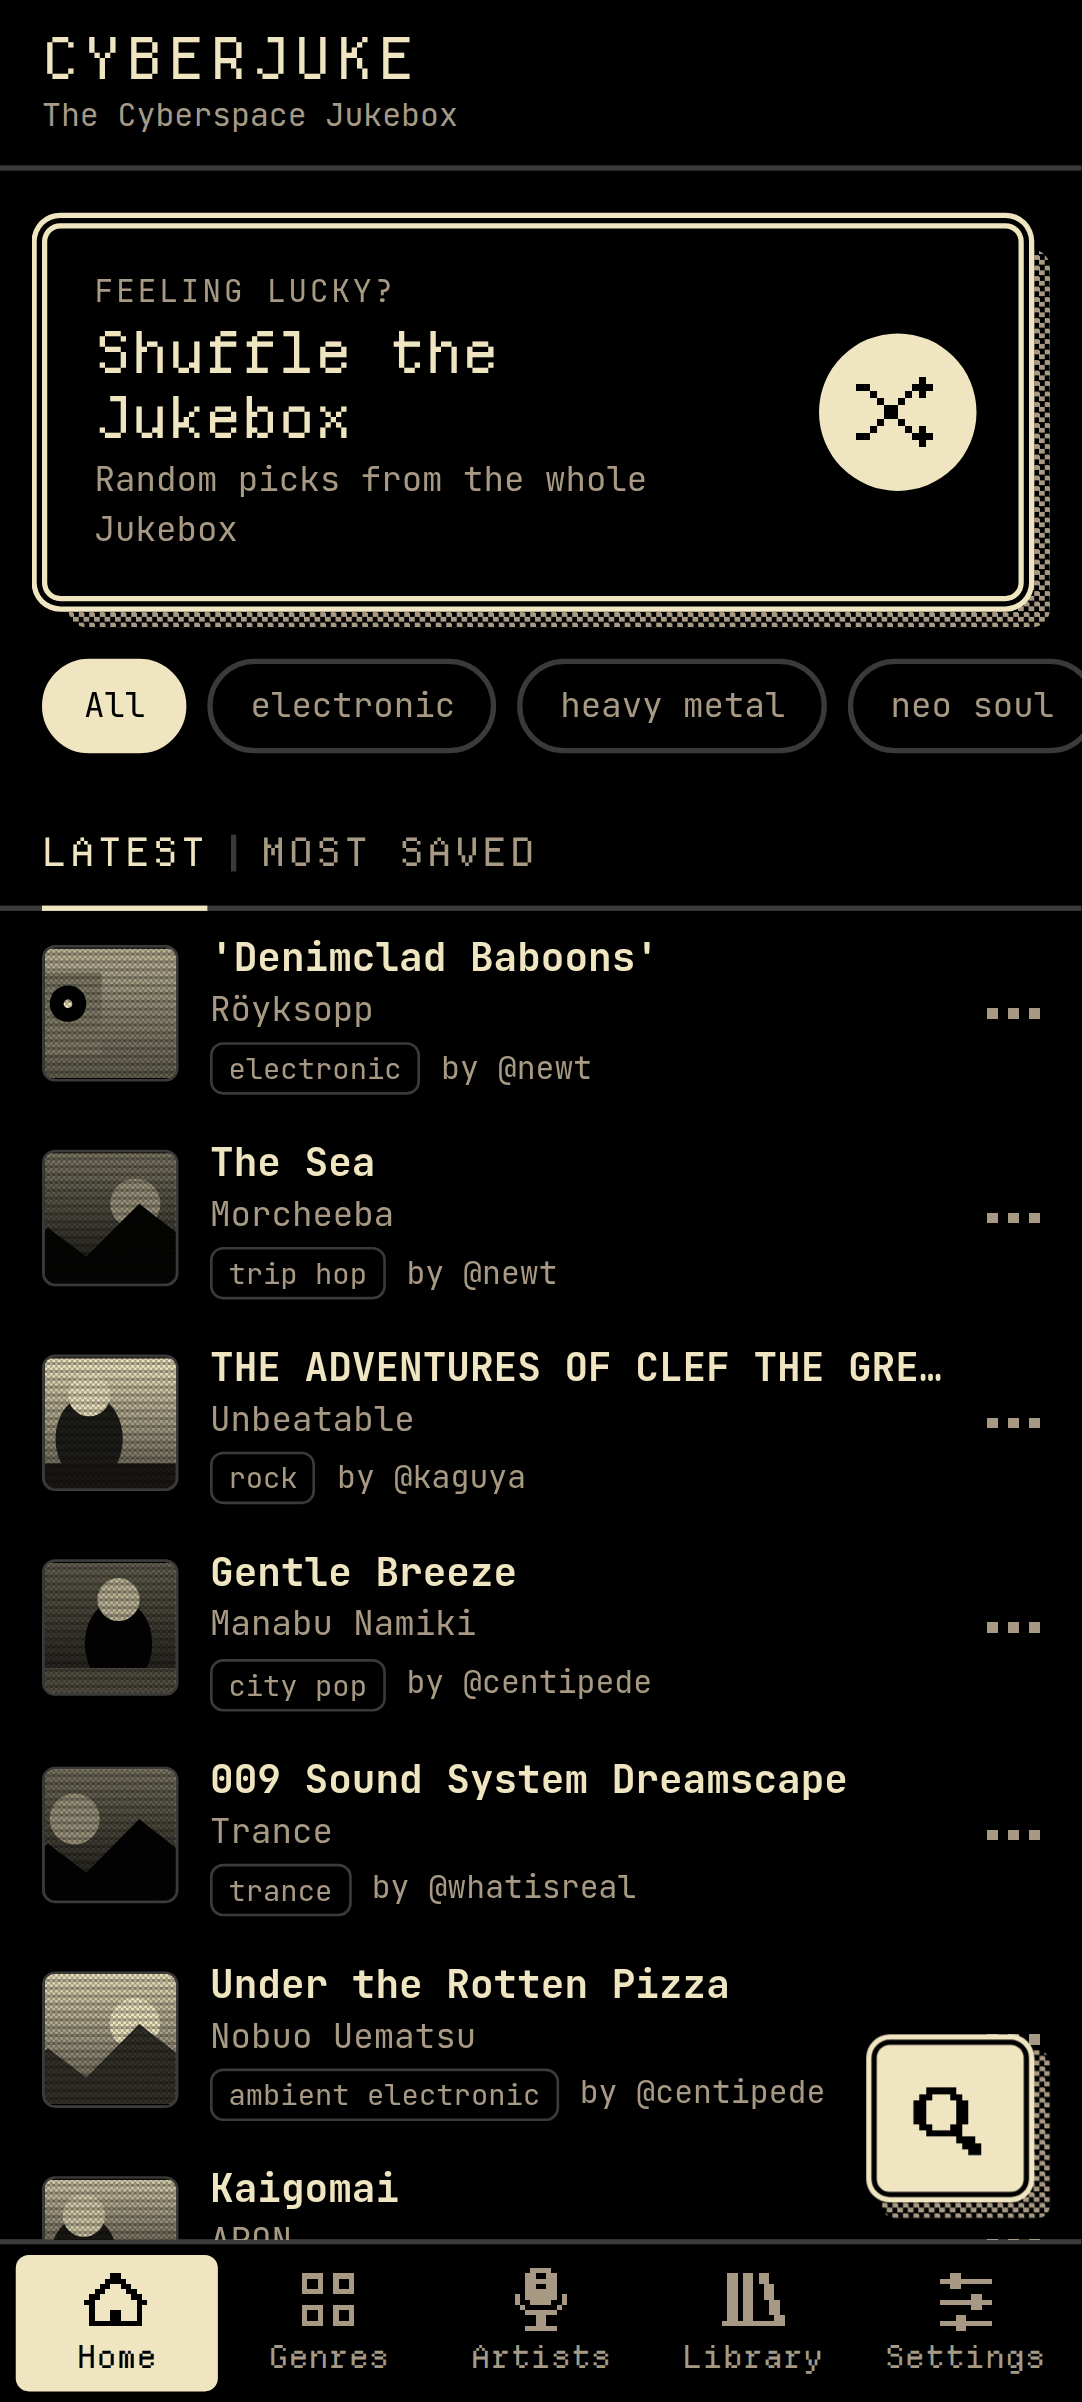
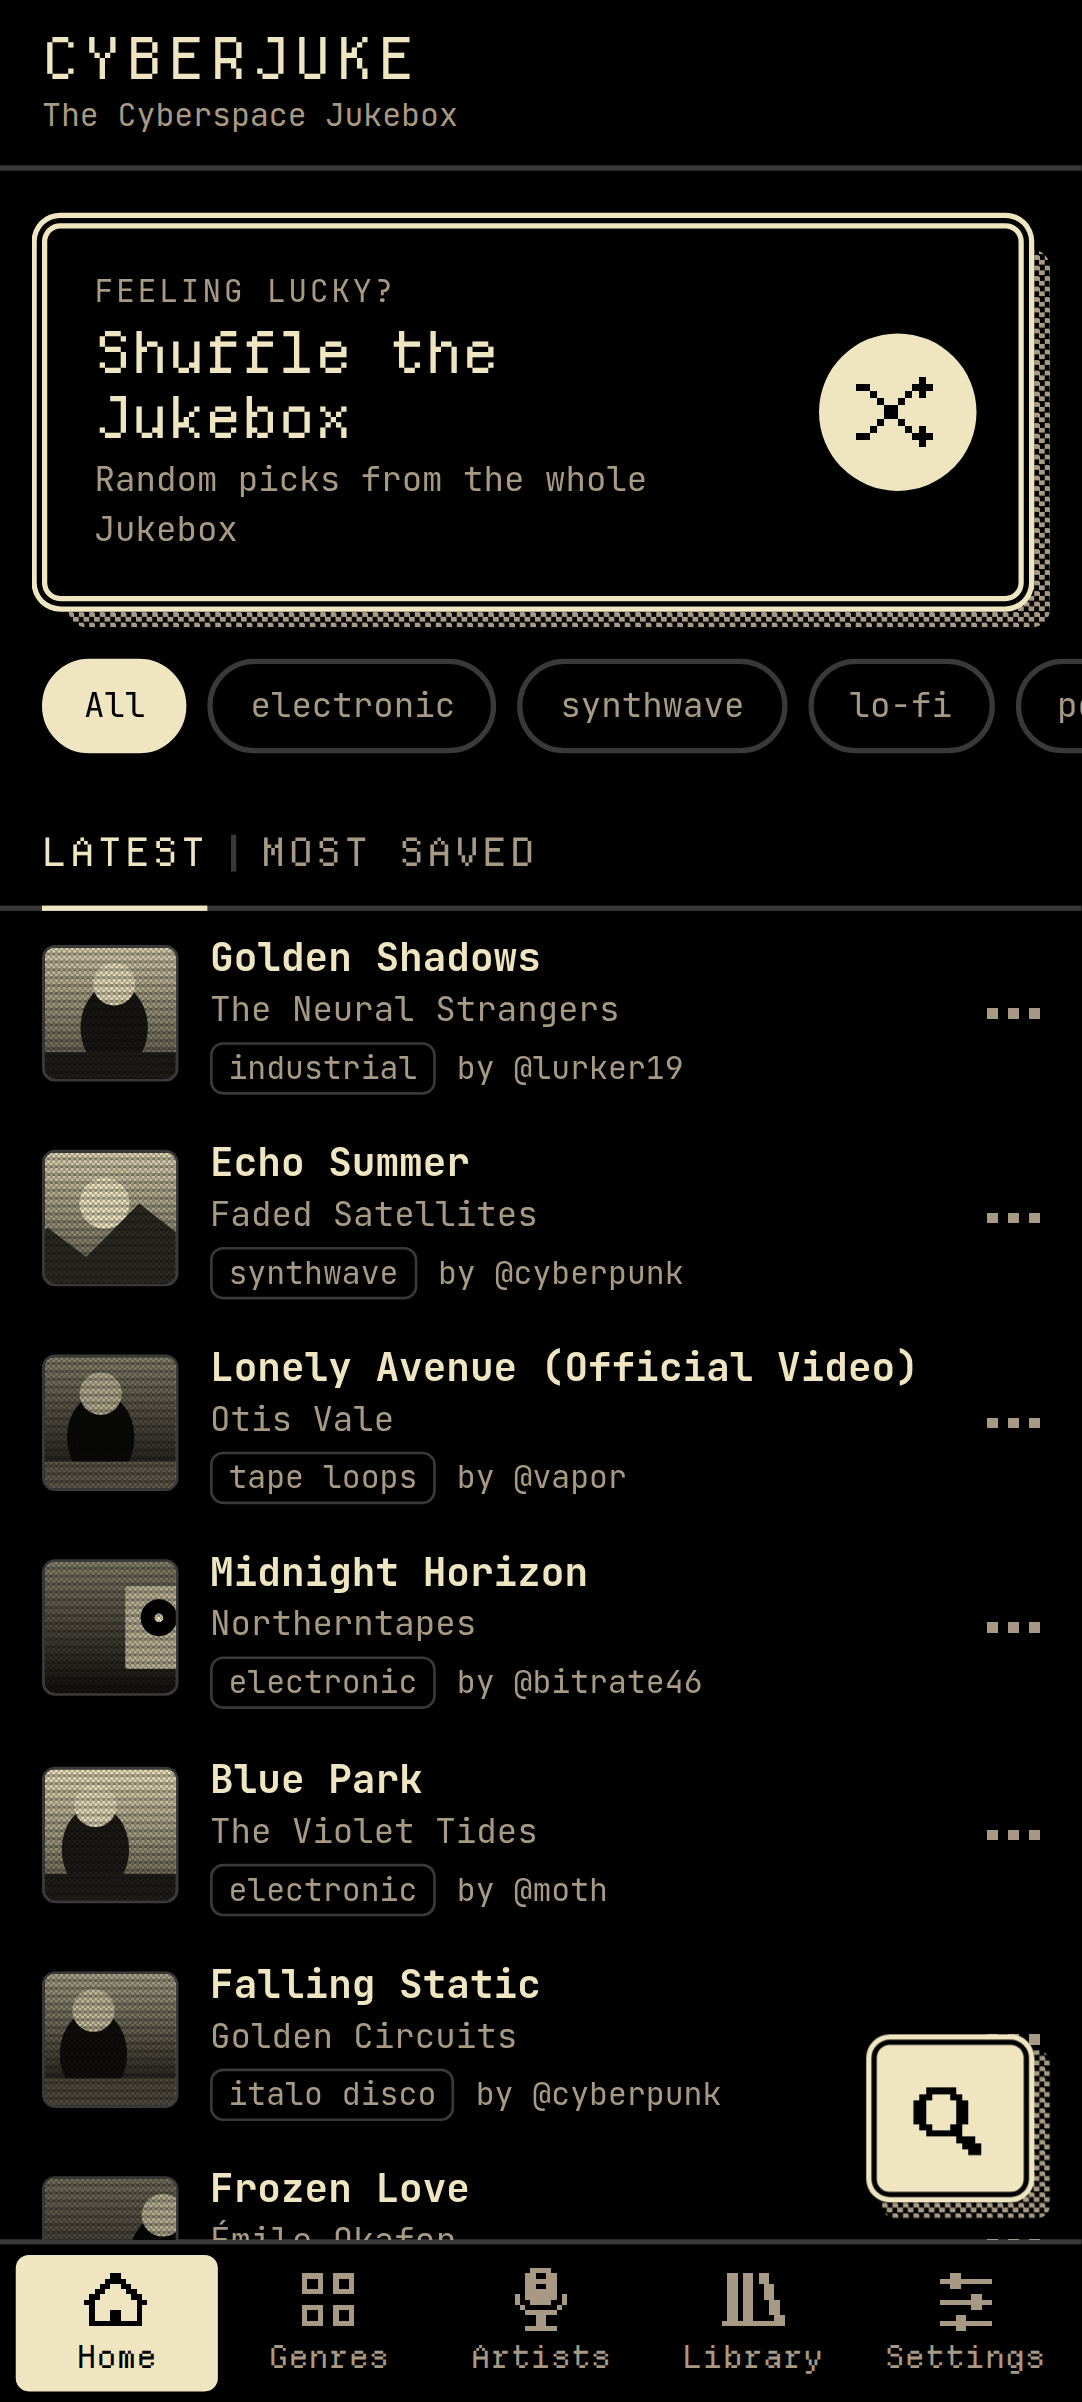
Release 1.0.0 prep: changelog, F-Droid recipe, store images, docs
- CHANGELOG: the Unreleased notes and the never-published 0.1.0 become one
  [1.0.0] section (with an empty Unreleased above); store changelog renamed to
  1000000.txt (versionCode of 1.0.0) and refreshed.
- F-Droid recipe: 1.0.0 / 1000000 / v1.0.0, the release certificate's SHA-256 in
  AllowedAPKSigningKeys (also in the README's verify section), JDK 21 for the build.
- Store screenshots come from `npm run media` now (synthetic data, current UI);
  the script was documented but missing from package.json.
- PUBLISHING, F-Droid README, CONTRIBUTING, build.gradle and release.yml examples
  say 1.0.0; the reproducible-build workflow is referenced and uses pipx.
- Screenshot paths: test-results/screenshots/, not media/web-screenshots/.
- Store text names YouTube, not "YouTube Music".

Claude-Session: https://claude.ai/code/session_01Fbiu3sHHKxWcaPywLZnUEE

diff --git a/CONTRIBUTING.md b/CONTRIBUTING.md
@@ -21,7 +21,8 @@ npm run dev          # the web UI in a browser (plays through a YouTube embed)
 npm run check        # typecheck + ESLint + unit tests: run before every commit
 npm run lint -- --fix   # fixes what ESLint can fix by itself
 npm run e2e          # Playwright e2e tests on a phone-sized Chromium
-npm run screenshots  # renders every screen into media/web-screenshots/ (not committed)
+npm run screenshots  # renders every screen into test-results/screenshots/ (not committed)
+npm run media        # regenerates the README and store images in media/ and fastlane/
 npm run sync         # build the web app and copy it into android/
 cd android && ./gradlew testDebugUnitTest   # Kotlin unit tests
 cd android && ./gradlew assembleDebug       # debug APK in android/app/build/outputs/apk/debug/
@@ -55,9 +56,9 @@ No signing key is committed to this repository.
 ## Releases (maintainers)
 
 1. Add a `## [x.y.z] - YYYY-MM-DD` section to `CHANGELOG.md` on `main` (move the Unreleased items into it).
-2. Run **Actions → Release** with the version. It checks the version is higher than the one in `android/app/build.gradle`, commits the bump (Gradle, `package.json`, and `fastlane/.../changelogs/<versionCode>.txt` if missing), builds an unsigned APK from that commit, then signs and publishes it in the protected `release` environment, tagging the commit `v<version>`.
+2. Run **Actions → Release** with the version. It checks the version is higher than the one in `android/app/build.gradle` (or equal to it, for a version the tree already carries that has no tag yet), commits the bump (Gradle, `package.json`, and `fastlane/.../changelogs/<versionCode>.txt` if missing), builds an unsigned APK from that commit, then signs and publishes it in the protected `release` environment, tagging the commit `v<version>`.
 
-versionCode is `major × 1,000,000 + minor × 1,000 + patch` (0.1.0 → 1000).
+versionCode is `major × 1,000,000 + minor × 1,000 + patch` (1.0.0 → 1000000, 1.2.3 → 1002003).
 
 The release key secrets are `KEYSTORE_FILE` (base64), `KEYSTORE_PASSWORD`, `KEY_ALIAS` and `KEY_PASSWORD`; the preview key uses the same four names with a `PREVIEW_` prefix. They can be repository secrets, or live in the `release` and `preview` environments for extra protection (main only, a required reviewer for releases). Only the signing jobs read them. [`scripts/setup-publishing.sh`](scripts/setup-publishing.sh) can create the keys on the maintainer's computer and set the environments up; [`docs/PUBLISHING.md`](docs/PUBLISHING.md) is the step-by-step guide. The `main` branch must accept pushes from GitHub Actions for the bump commit.
 
@@ -83,7 +84,7 @@ Look at `git log` for the tone. In short:
 - Subject: `Area: what changed`, in the imperative or as a short description, under about 72 characters. Areas in use: `Player`, `Data`, `Stores`, `UI`, `Android`, `Tests`, `CI`, `Build`, `Release`, `Docs`, `F-Droid`, `Repo`, or a screen name (`Artist page`, `Settings`).
 - Body: why, and anything a reviewer wouldn't see from the diff. Wrap at about 72 characters.
 - One logical change per commit; keep `npm run check` passing on each.
-- Don't commit build outputs, screenshots (`media/web-screenshots/`), keystores or `google-services.json`.
+- Don't commit build outputs, screenshots (`test-results/`), keystores or `google-services.json`.
 
 ## License
 

diff --git a/CHANGELOG.md b/CHANGELOG.md
@@ -2,7 +2,16 @@
 
 ## [Unreleased]
 
-Hardening for a public release and F-Droid.
+## [1.0.0] - 2026-10-09
+
+The first stable release.
+
+### The app
+- The Cyberspace Jukebox as a music app: the latest tracks as an endless list, Most saved, "Shuffle the Jukebox", genres and artists with Play all and Shuffle, and search (Here, Jukebox and Global).
+- Background playback through a native Media3 service, with notification, lock screen and headset controls; the queue keeps going with the screen off.
+- Now Playing with synced lyrics and an Up next you can reorder; liked tracks and recently played, stored on the device.
+- Optional sign-in for members-only shared tracks.
+- Eight Cyberspace themes: Dark, Light, C64, VT320, Matrix, Crypt, Bubblegum and Brutalist. NSFW posts are hidden by default; high and low audio quality.
 
 ### Autoplay and queue
 - **Autoplay:** when a list ends, similar songs keep playing. Jukebox tracks lead to Jukebox tracks picked by artist, genre and which artists the same posters share; Global tracks lead to that song's radio. A tap on Home, Most saved or search results starts a radio from that song; albums, Liked, history and genre pages play in order first. Settings → Autoplay turns it off.
@@ -46,7 +55,7 @@ Hardening for a public release and F-Droid.
 - Renovate keeps npm, Gradle, GitHub Actions and NewPipeExtractor up to date.
 
 ### F-Droid
-- Literal `versionCode`/`versionName` (0.1.0 = 1000); the Release workflow commits the bump before tagging.
+- Literal `versionCode`/`versionName` (1.0.0 = 1000000); the Release workflow commits the bump before tagging.
 - Fastlane store metadata: descriptions, icon, feature graphic, screenshots and per-version changelogs.
 - Reproducible builds: no dependency-metadata block in the APK, and a byte-identical web build.
 - A draft fdroiddata recipe in `docs/fdroid/`.
@@ -54,18 +63,3 @@ Hardening for a public release and F-Droid.
 ### Repository
 - Web screenshots are no longer committed (a workflow renders them as an artifact); the README images are in `media/screenshots/`.
 - New `CONTRIBUTING.md` and `SECURITY.md`; the README covers the architecture, privacy and data use, YouTube limitations and building.
-
-## [0.1.0] - 2026-10-05
-
-First release.
-
-- Latest Jukebox tracks as an endless list, "Shuffle the Jukebox", and genre browsing with Play all / Shuffle.
-- Library with liked tracks and recently played, stored on the device.
-- Background playback through a native Media3 service: notification, lock screen and headset controls. The queue keeps advancing with the screen off.
-- Now Playing screen with seek, shuffle, repeat, like, "Posted by @user" and an Up Next queue you can reorder.
-- Unplayable tracks are skipped automatically.
-- Cyberspace themes: Dark, Light, C64, VT320, Matrix, Crypt, Bubblegum, GRiD.
-- NSFW posts hidden by default.
-- High and low audio quality settings.
-
-Known limitation: with shuffle on, "Play next" adds the track to the queue but may not play it next.

diff --git a/docs/PUBLISHING.md b/docs/PUBLISHING.md
@@ -66,20 +66,20 @@ On your phone, uninstall the old **CyberJuke** preview. It was signed with a key
 
 When something gets fixed, a new preview is built with **Actions → Preview → Run workflow**, or I start it. It installs over the old one and keeps your data.
 
-## 6. Release v0.1.0
+## 6. Release v1.0.0
 
 When the preview has passed testing:
 
-1. Tell me, and I'll move the CHANGELOG's "Unreleased" notes into the 0.1.0 section.
-2. On GitHub go to **Actions → Release → Run workflow**, type `0.1.0`, then **Run**.
+1. Tell me, and I'll move the CHANGELOG's "Unreleased" notes into a new version section (done for 1.0.0).
+2. On GitHub go to **Actions → Release → Run workflow**, type `1.0.0`, then **Run**.
 3. If you added yourself as a required reviewer (step 2, optional), the run pauses at **Sign and publish**: open it, click **Review deployments**, tick `release` and **Approve**. Otherwise it simply carries on.
-4. A few minutes later, **Releases** shows **CyberJuke v0.1.0** with `CyberJuke-0.1.0.apk`. That's the real app, signed with your release key.
+4. A few minutes later, **Releases** shows **CyberJuke v1.0.0** with `CyberJuke-1.0.0.apk`. That's the real app, signed with your release key.
 
-Later versions work the same way: add a CHANGELOG section, then run Release with the new number (for example `0.1.1`).
+Later versions work the same way: add a CHANGELOG section, then run Release with the new number (for example `1.0.1`).
 
 ## 7. Submit to F-Droid
 
-1. Send me the release certificate fingerprint: the last line of `CyberJuke-secrets.txt`, or `~/cyberjuke-keys/release-cert-sha256.txt` with the script. I'll fill in [`docs/fdroid/io.github.iamandelib.cyberjuke.yml`](fdroid/io.github.iamandelib.cyberjuke.yml) with it and the `v0.1.0` commit, and check that the build is reproducible.
+1. Send me the release certificate fingerprint: the last line of `CyberJuke-secrets.txt`, or `~/cyberjuke-keys/release-cert-sha256.txt` with the script. I'll fill in [`docs/fdroid/io.github.iamandelib.cyberjuke.yml`](fdroid/io.github.iamandelib.cyberjuke.yml) with it and the `v1.0.0` commit, and check that the build is reproducible (**Actions → Reproducible build check**, tag `v1.0.0`).
 2. Create a free account on <https://gitlab.com> and **fork** <https://gitlab.com/fdroid/fdroiddata>.
 3. In your fork, add the file as `metadata/io.github.iamandelib.cyberjuke.yml`.
 4. Open a **merge request** using the "App inclusion" template. [`docs/fdroid/README.md`](fdroid/README.md) lists what to mention.

diff --git a/docs/fdroid/README.md b/docs/fdroid/README.md
@@ -6,20 +6,19 @@ The store listing (title, descriptions, icon, feature graphic, screenshots, per-
 
 ## Before submitting
 
-1. **Publish v0.1.0** with the Release workflow (Actions → Release → version `0.1.0`). The workflow commits the version bump if needed, builds an unsigned APK, signs it in the protected `release` environment and tags the commit `v0.1.0`.
+1. **Publish v1.0.0** with the Release workflow (Actions → Release → version `1.0.0`). The workflow commits the version bump if needed, builds an unsigned APK, signs it in the protected `release` environment and tags the commit `v1.0.0`.
 2. **Fill in the recipe:**
-   - `commit:` the full hash of the `v0.1.0` tag: `git rev-parse v0.1.0^{commit}`.
-   - `AllowedAPKSigningKeys:` the SHA-256 of the release certificate, lowercase, without colons:
+   - `commit:` the full hash of the `v1.0.0` tag: `git rev-parse v1.0.0^{commit}`.
+   - `AllowedAPKSigningKeys:` already filled in with the release certificate's SHA-256. Check it against the published APK:
      ```bash
-     apksigner verify --print-certs CyberJuke-0.1.0.apk | sed -n 's/.*certificate SHA-256 digest: //p'
+     apksigner verify --print-certs CyberJuke-1.0.0.apk | sed -n 's/.*certificate SHA-256 digest: //p'
      ```
-3. **Check that the build is reproducible.** Build the tagged commit twice from clean clones (or once locally and compare with the GitHub APK):
+3. **Check that the build is reproducible:** run **Actions → Reproducible build check** with the tag `v1.0.0`. It rebuilds the tag unsigned, the way F-Droid does, and compares it with the signed APK on the release. To do the same by hand:
    ```bash
-   git clone https://github.com/IamAndelib/CyberJuke && cd CyberJuke && git checkout v0.1.0
+   git clone https://github.com/IamAndelib/CyberJuke && cd CyberJuke && git checkout v1.0.0
    npm ci --ignore-scripts && npm run build && npx cap sync android --deployment
    cd android && ./gradlew assembleRelease
-   pip install apksigcopier
-   apksigcopier compare CyberJuke-0.1.0.apk --unsigned app/build/outputs/apk/release/CyberJuke-0.1.0-release.apk
+   pipx run apksigcopier==1.1.1 compare CyberJuke-1.0.0.apk --unsigned app/build/outputs/apk/release/*.apk
    ```
    `diffoscope` shows the differences if the comparison fails. Use the same JDK (Temurin 21) as CI.
 4. **Lint the recipe** in an fdroiddata checkout, if you have `fdroidserver`:

diff --git a/README.md b/README.md
@@ -77,7 +77,7 @@ apksigner verify --print-certs CyberJuke-<version>.apk   # from the Android SDK 
 `apksigner` must report `Verified using v2 scheme (APK Signature Scheme v2): true` and the release certificate:
 
 ```
-Signer #1 certificate SHA-256 digest: <published with the first release>
+Signer #1 certificate SHA-256 digest: 1c007729638d095f68160456af0fb9799d75ba4682faf18ca520a5842bb5ce61
 ```
 
 Releases are built by the `Release` workflow from a tagged commit with no caches and no install scripts, then signed in a separate job. The build is meant to be reproducible: building the tag yourself (see [Building](#building)) gives the same APK apart from the signature, which `apksigcopier compare` checks.
